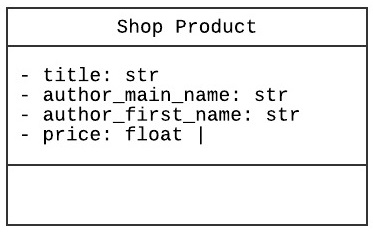
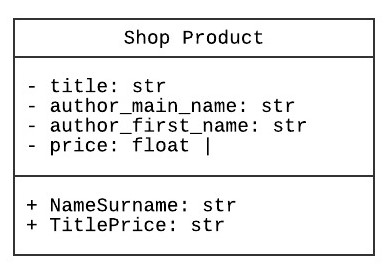
We establish two methods for obtaining organized data, proceed to generate two instances, $book1 and $book2, allocate specific values to their attributes, and subsequently display both the author's complete name and the product's title and price by employing the defined methods.

Changed region(s): [[0.0, 0.03, 1.0, 0.9914]]

diff --git a/newfile.php b/newfile.php
@@ -1,20 +1,31 @@
 <?php
 class ShopProduct {
-
+    public $title="title";
+    public $author_sur_name="surname";
+    public $author_first_name="name";
+    public $price=0;
+    
+    public function NameSurname(){
+        return $this->author_first_name . " " . $this->author_sur_name;
+    }
+    
+    public function TitlePrice(){
+        return  $this->title . " price " .  $this->price;
+    }
 }
 
 $book1= new ShopProduct();
 $book1->title = "Book One";
-$book1->author_main_name = "Doe";
+$book1->author_sur_name = "Doe";
 $book1->author_first_name = "John";
 $book1->price = 19.99;
 
 $book2= new ShopProduct();
 $book2->title="Book two";
-$book2->author_main_name = "Smith";
-$book2->author_second_name = "Jane";
+$book2->author_sur_name = "Smith";
+$book2->author_first_name = "Jane";
 $book2->price = 29.99;
 
-var_dump($book1);
-var_dump($book2);
+print "author: {$book1->NameSurname()}";
+print "Title: {$book1->TitlePrice()}";
 ?>
